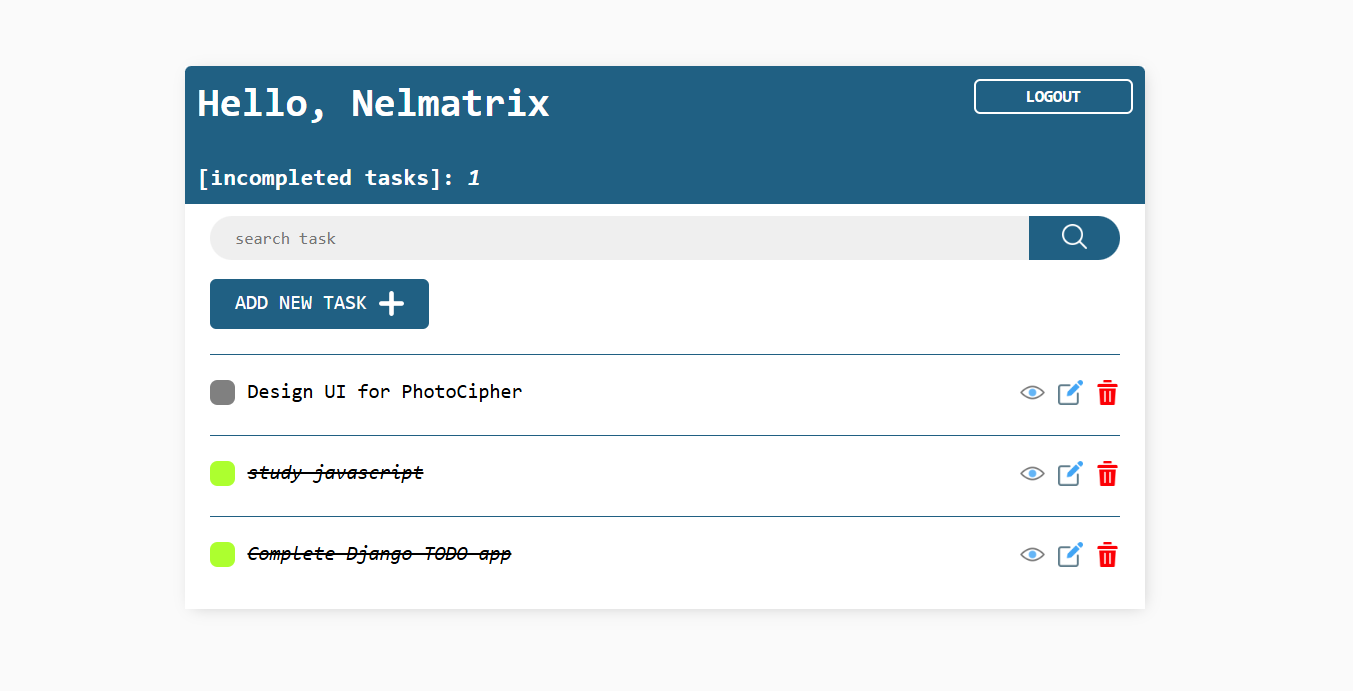
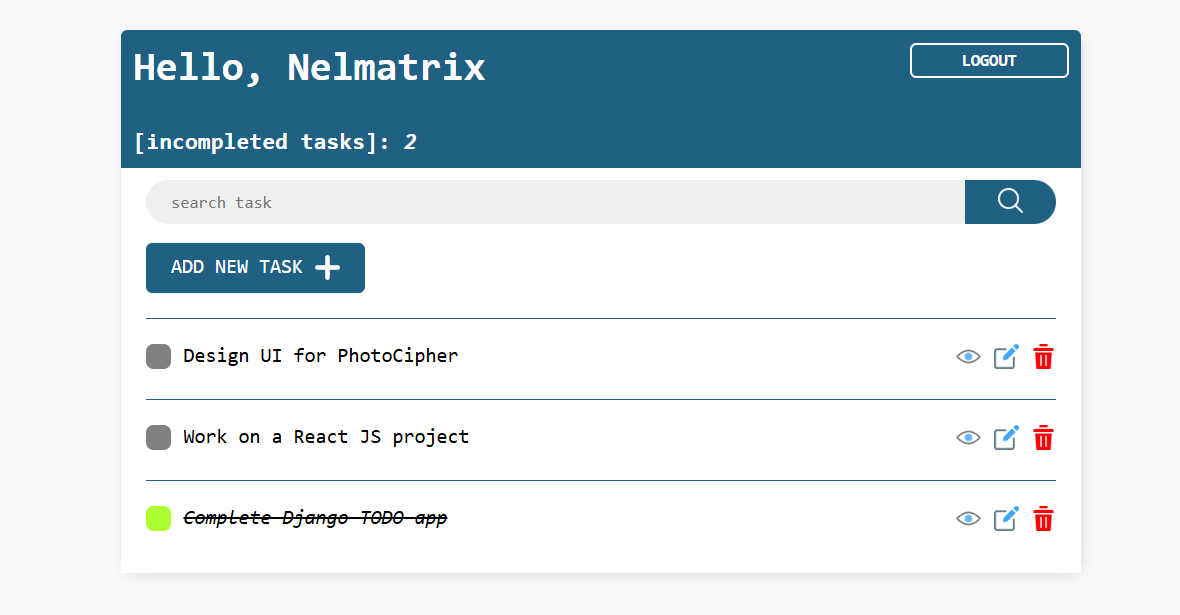
docs: add final documentation for this project

Changed region(s): [[0.0915, 0.0309, 0.9153, 0.6179], [0.122, 0.6488, 0.9153, 0.865], [0.7322, 0.5561, 0.9153, 0.6179]]

diff --git a/LICENSE.md b/LICENSE.md
@@ -1,0 +1,21 @@
+MIT License
+
+Copyright (c) 2025 Nelson Chidi
+
+Permission is hereby granted, free of charge, to any person obtaining a copy
+of this software and associated documentation files (the "Software"), to deal
+in the Software without restriction, including without limitation the rights
+to use, copy, modify, merge, publish, distribute, sublicense, and/or sell
+copies of the Software, and to permit persons to whom the Software is
+furnished to do so, subject to the following conditions:
+
+The above copyright notice and this permission notice shall be included in all
+copies or substantial portions of the Software.
+
+THE SOFTWARE IS PROVIDED "AS IS", WITHOUT WARRANTY OF ANY KIND, EXPRESS OR
+IMPLIED, INCLUDING BUT NOT LIMITED TO THE WARRANTIES OF MERCHANTABILITY,
+FITNESS FOR A PARTICULAR PURPOSE AND NONINFRINGEMENT. IN NO EVENT SHALL THE
+AUTHORS OR COPYRIGHT HOLDERS BE LIABLE FOR ANY CLAIM, DAMAGES OR OTHER
+LIABILITY, WHETHER IN AN ACTION OF CONTRACT, TORT OR OTHERWISE, ARISING FROM,
+OUT OF OR IN CONNECTION WITH THE SOFTWARE OR THE USE OR OTHER DEALINGS IN THE
+SOFTWARE.

diff --git a/README.md b/README.md
@@ -1,0 +1,26 @@
+# DJANGO TODO APP
+
+A simple todo web application, built using the Django framework. This project was built as part of my introduction to the Django framework, and my training as a fullstack developer using Python as my primary language.
+
+
+
+---
+![](screenshots/main_screen.png)  
+
+![](screenshots/login_screen.png)  
+
+![](screenshots/registration_screen.png)  
+
+![](screenshots/task_creation_&&_update_screen.png)  
+
+![](screenshots/task_view_screen.png)  
+
+![](screenshots/task_deletion_screen.png)  
+
+
+
+---
+MIT LICENSE  
+
+
+---
